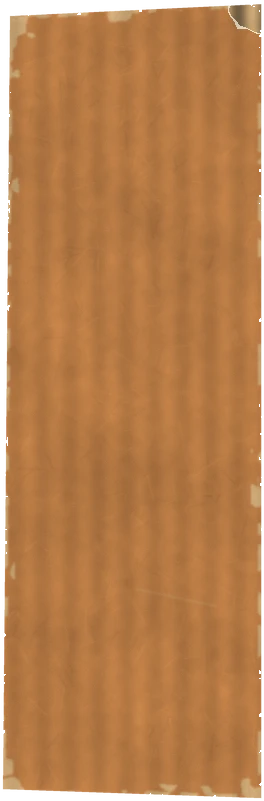
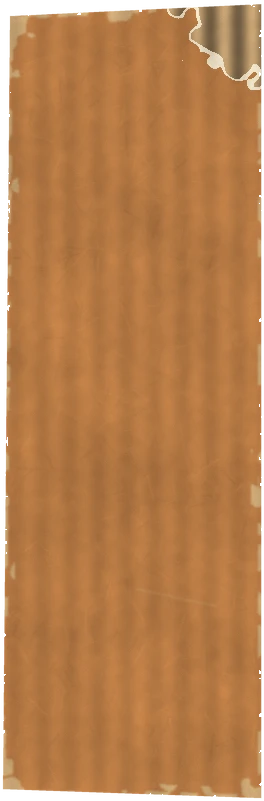
Trophy board's torn corner bites deeper
Vladislav: a bit more torn-off cardboard on the trophies' board. The torn
corner of the tray plate is drawn larger (tear 0.45 to 1.2), showing more of
the flutes under the liner.

Claude-Session: https://claude.ai/code/session_01E964zWjxZJqY8sUvHHQj7G

Changed region(s): [[0.6364, 0.0, 1.0, 0.1248]]

diff --git a/art/ui/draw_plates.py b/art/ui/draw_plates.py
@@ -113,4 +113,4 @@ plate('pf', (W, H), [(4 + x * (W - 8), 4 + y * (H - 8)) for x, y in ((0.09, 0.03
 # the board of the trophies' sockets in the fight corner, left of the health and the sparks (Vladislav: brighter, and
 # cardboard); 88 x 267 of the corner's units at 3 pixels a unit, its side by the health straight
 W, H = 264, 801
-plate('tray', (W, H), [(10, 16), (W - 3, 4), (W - 3, H - 3), (3, H - 12)], (176, 110, 56), 90, tear=0.45)
+plate('tray', (W, H), [(10, 16), (W - 3, 4), (W - 3, H - 3), (3, H - 12)], (176, 110, 56), 90, tear=1.2)
